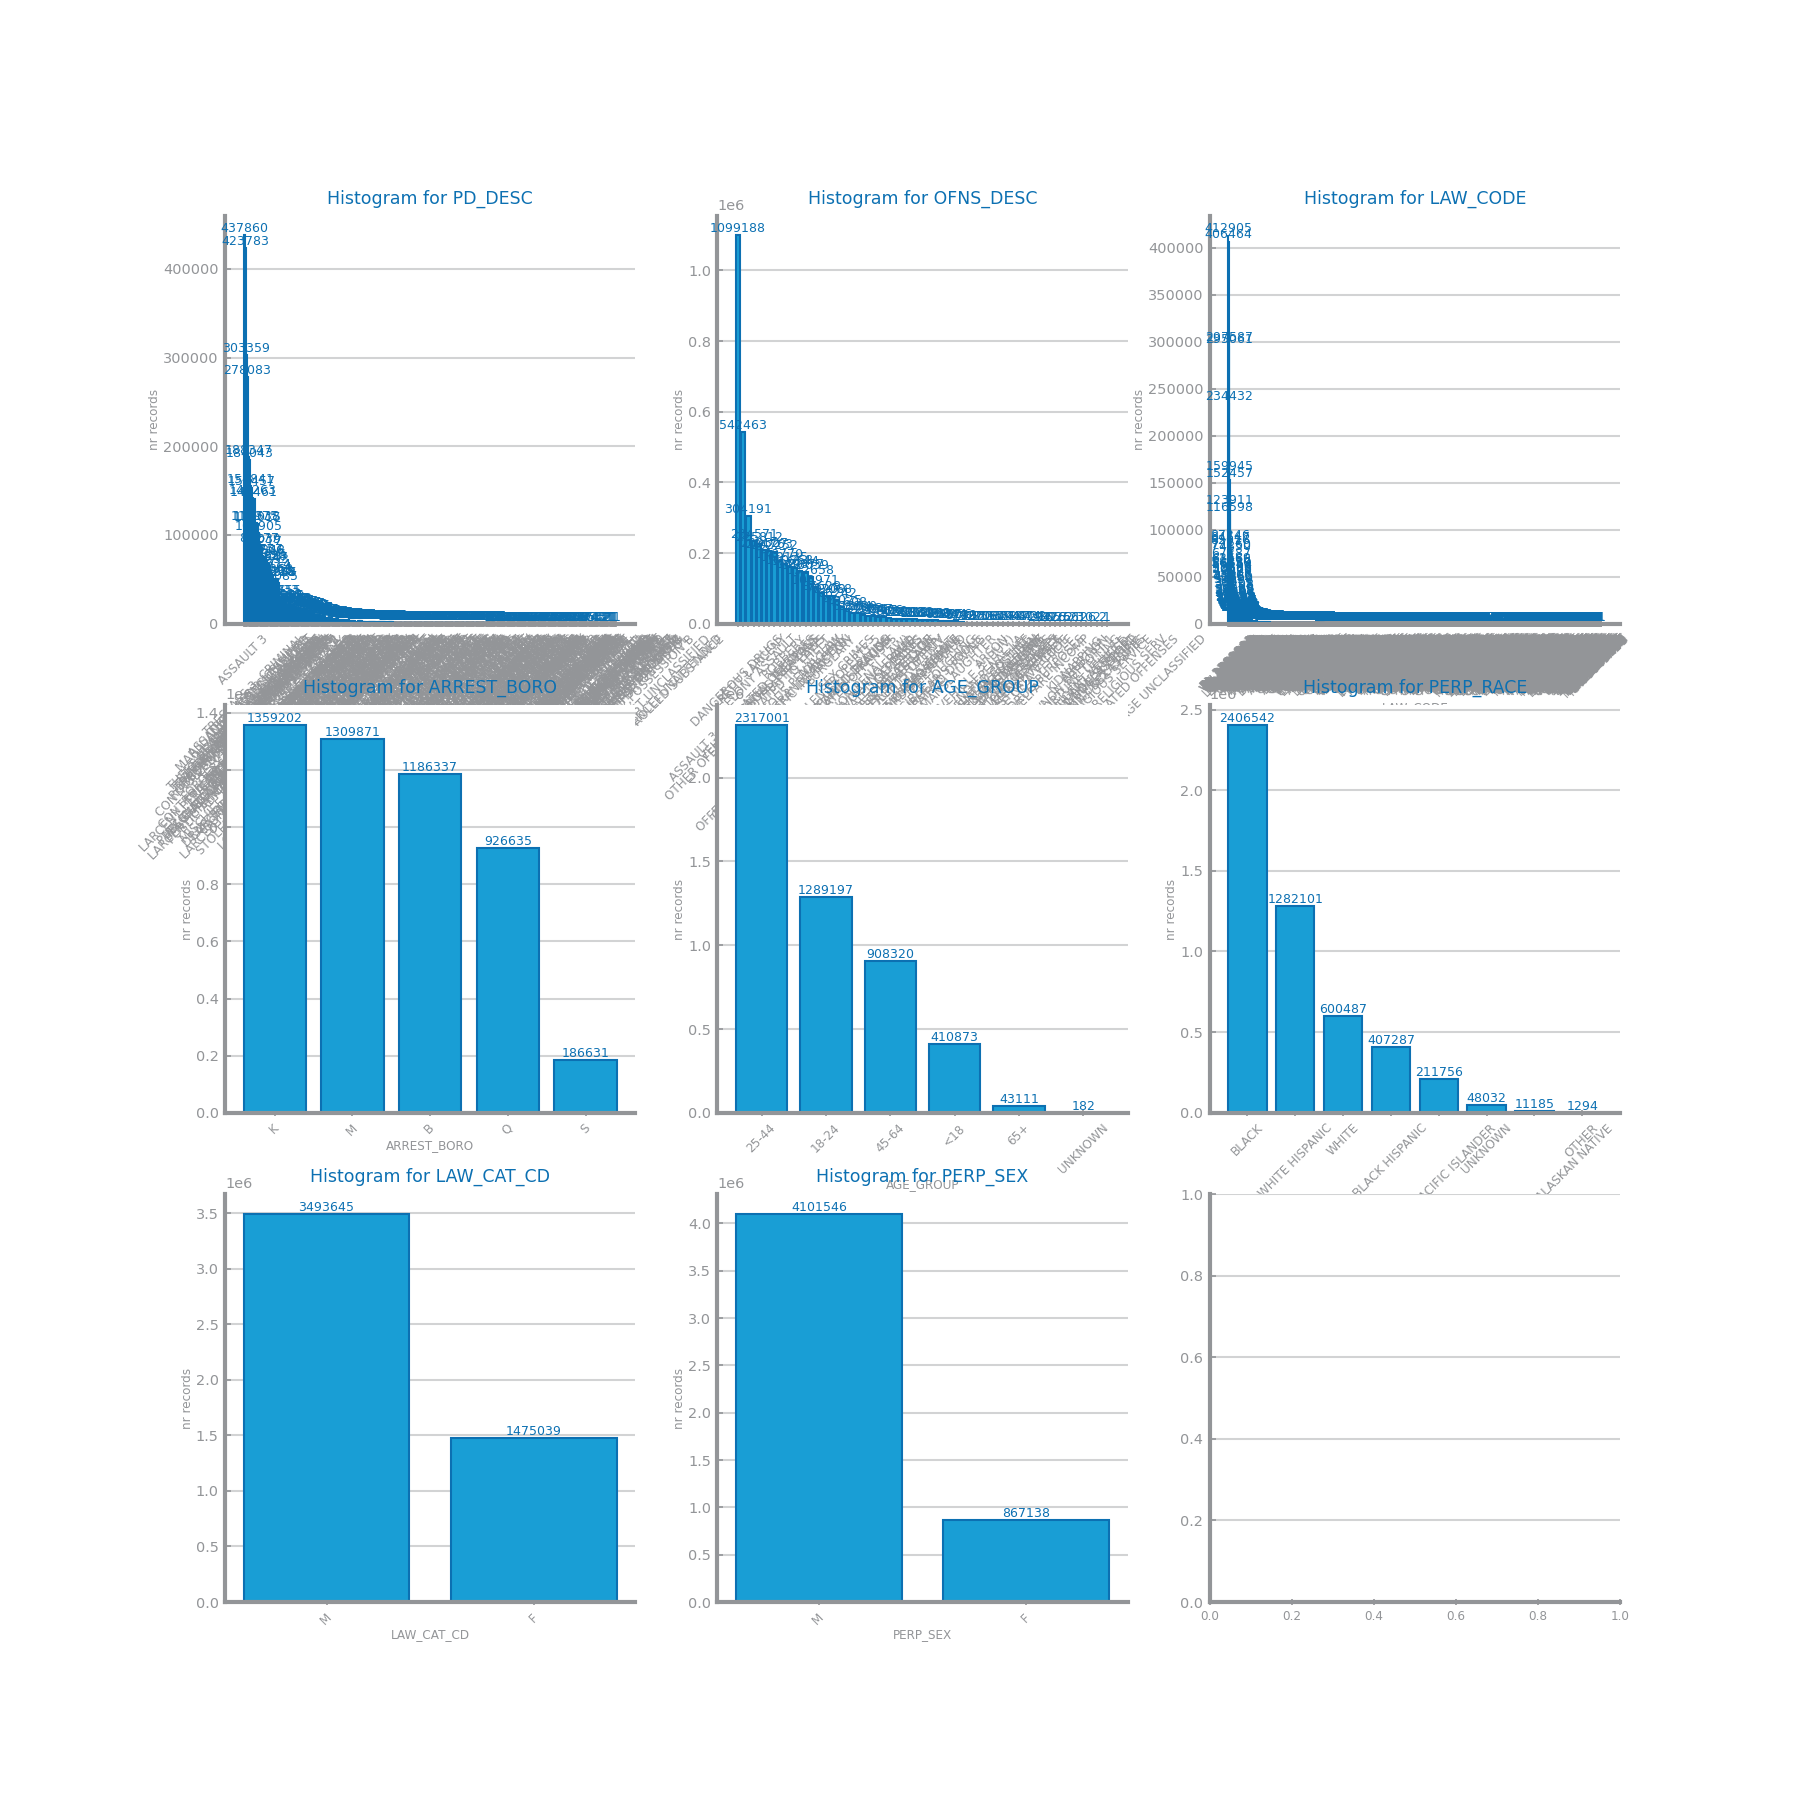
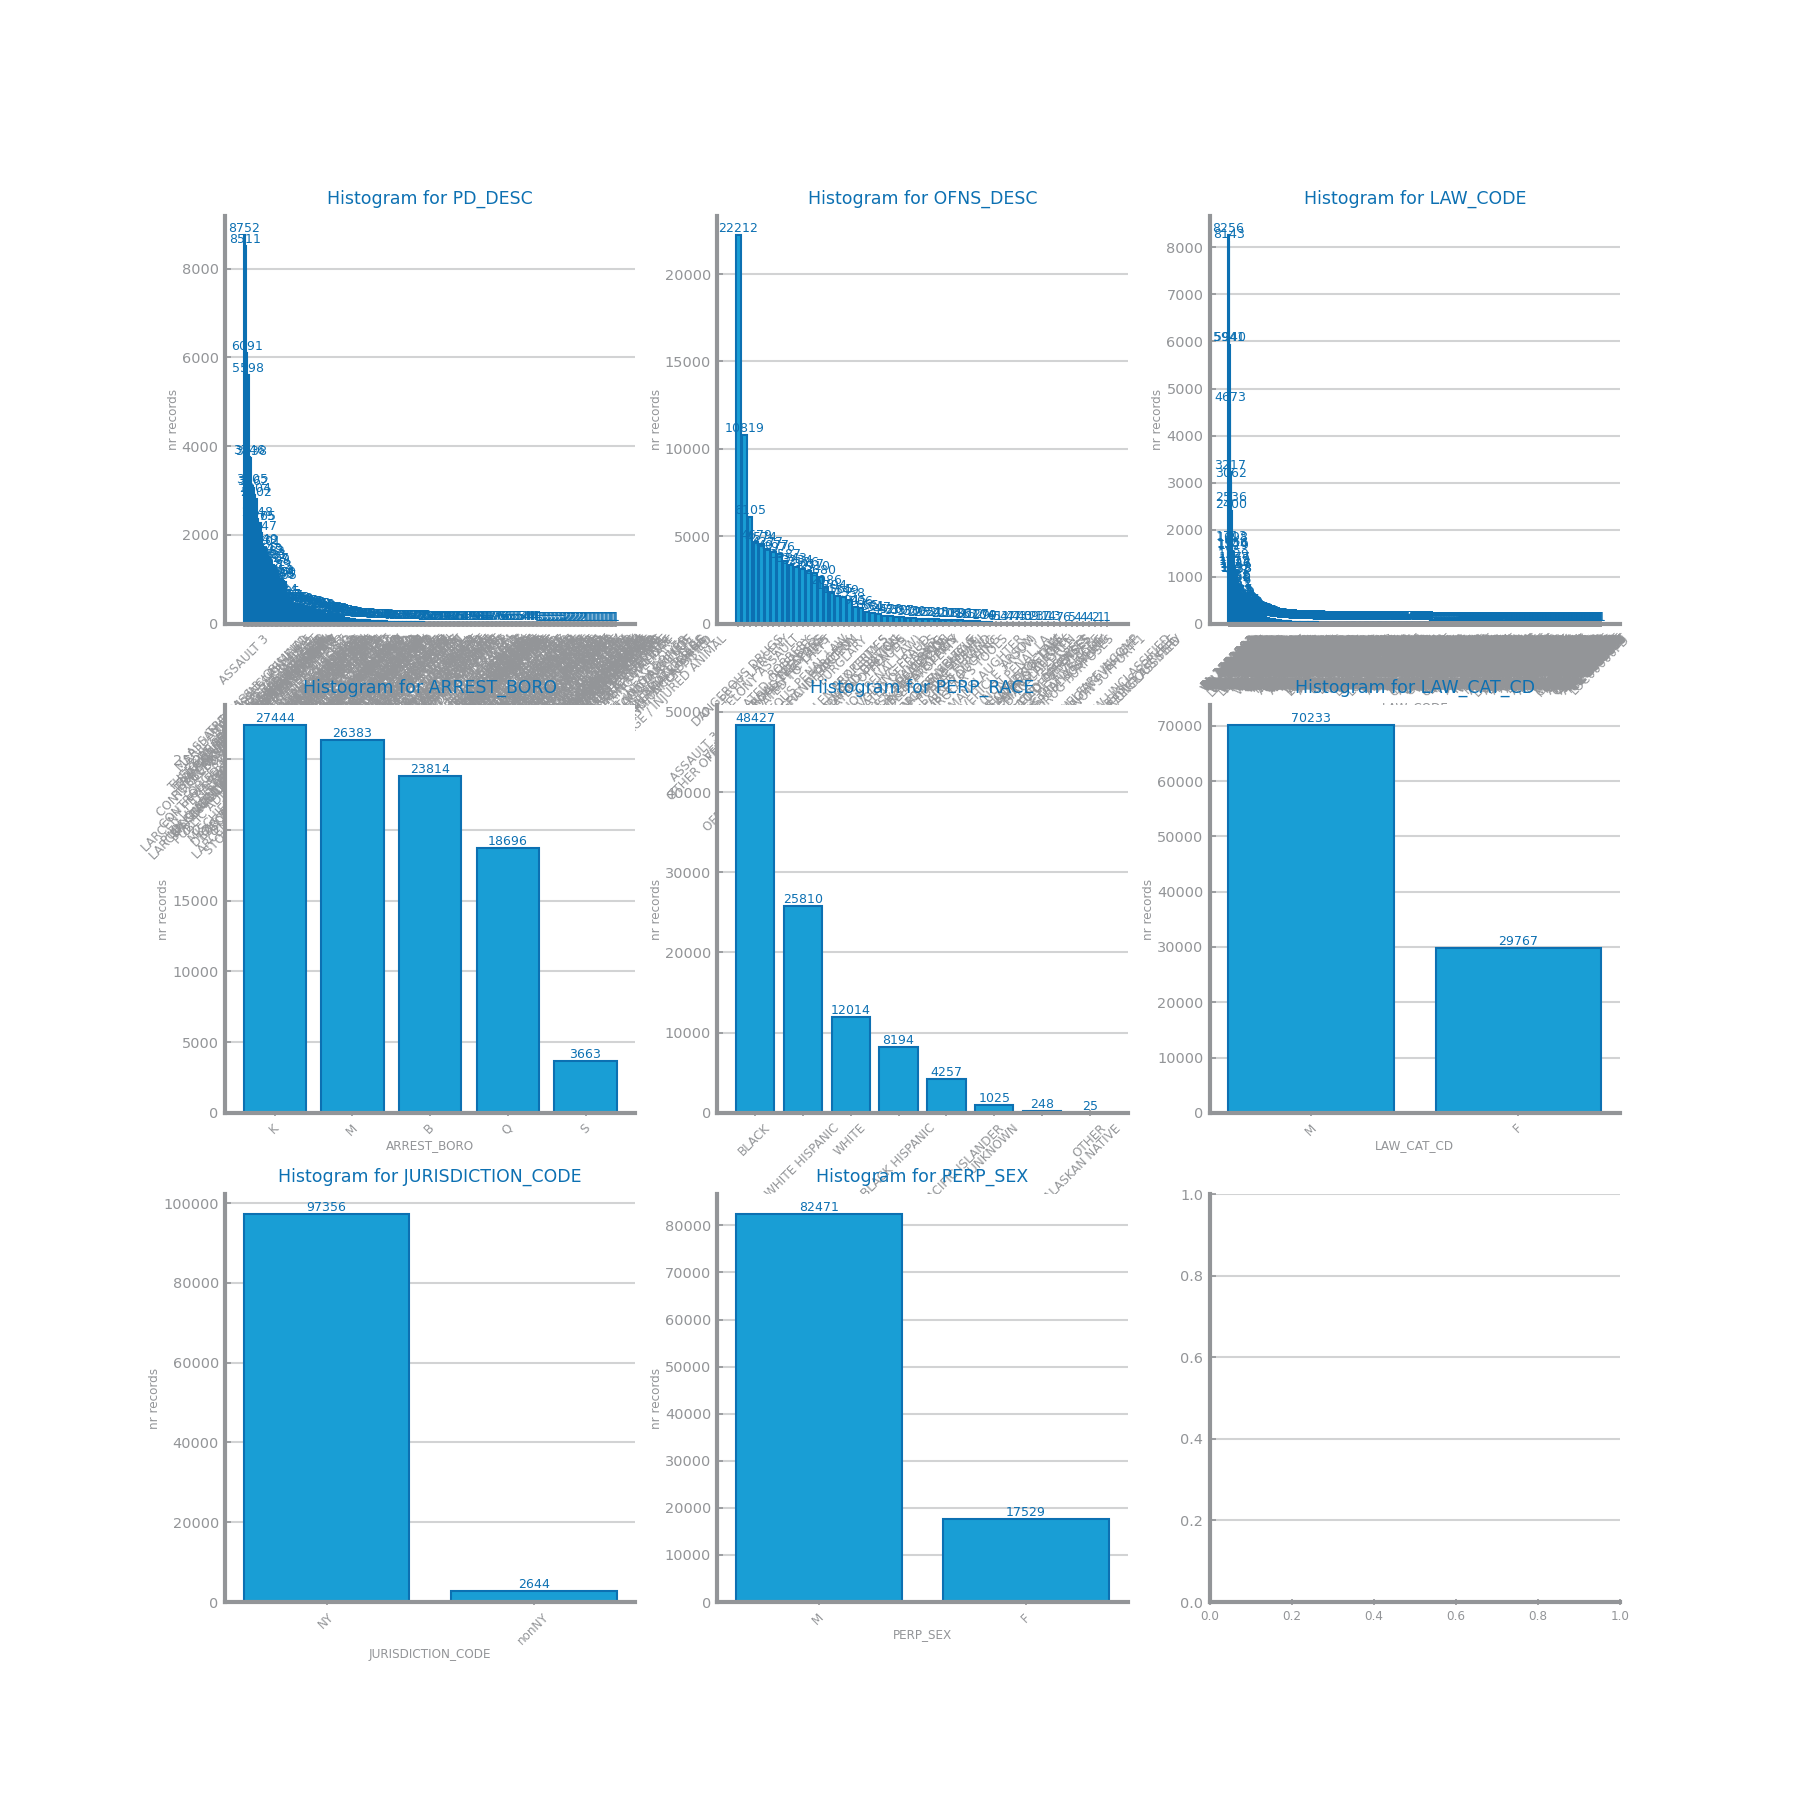
Redo Data Profiling for the new target on the NY_ARRESTS dataset

diff --git a/main.py b/main.py
@@ -12,12 +12,17 @@ from classes.DataProcessing import DataProcessing
 path_dataset1_class = "data/class_ny_arrests.csv"
 path_dataset2_class = "data/class_financial distress.csv"
 
-data_loader1 = DataManipulator(path_dataset1_class, "LAW_CAT_CD")
+data_loader1 = DataManipulator(path_dataset1_class, "JURISDICTION_CODE")
 data_loader2 = DataManipulator(path_dataset2_class, "CLASS")
 
 # Display the data
 print(data_loader1.data.head())
 print(data_loader2.data.head())
+
+# Sample the data of NY Arrests
+print(f"\nSampling 100000 records from the NY Arrests dataset...")
+data_loader1.data = data_loader1.data.sample(n=100000, random_state=42)
+print(f"Dataset successfully sampled to 100000 records.")
 
 # %% 1- Data Profiling
 
@@ -25,50 +30,47 @@ print(data_loader2.data.head())
 data_profiling1 = DataProfiling(data_loader1)
 data_profiling2 = DataProfiling(data_loader2)
 
-# Data Dimensionality
-# data_profiling1.plot_records_variables()
-# data_profiling2.plot_records_variables()
-# data_profiling1.plot_variable_types()
-# data_profiling2.plot_variable_types()
-# data_profiling1.plot_missing_values()
-# data_profiling2.plot_missing_values()
-
-# Data Distribution
-# data_profiling1.plot_global_boxplots()
-# data_profiling2.plot_global_boxplots()
-# data_profiling1.plot_single_variable_boxplots()
-# data_profiling2.plot_single_variable_boxplots()
-# data_profiling1.plot_histograms()
-# data_profiling2.plot_histograms()
-# data_profiling1.plot_histograms_distribution()
-# data_profiling2.plot_histograms_distribution()
-# data_profiling1.plot_outlier_comparison()
-# data_profiling2.plot_outlier_comparison()
-# data_profiling1.plot_class_distribution()
-# data_profiling2.plot_class_distribution()
-
-# Data Granularity
-# data_profiling1.plot_date_granularity_analysis()
-# data_profiling1.plot_location_granularity_analysis()
-# data_profiling1.plot_law_code_granularity_analysis()
-# data_profiling1.plot_borough_granularity_analysis()
-# data_profiling1.plot_age_granularity_analysis()
-# data_profiling1.plot_race_granularity_analysis()
-
-# Data Sparsity
-# data_profiling1.plot_sparsity_analysis()
-# data_profiling2.plot_sparsity_analysis()
-# data_profiling1.plot_sparsity_analysis_per_class()
-# data_profiling2.plot_sparsity_analysis_per_class()
-
-# Sample the data of NY Arrests
-print(f"\nSampling 100000 records from the NY Arrests dataset...")
-data_loader1.data = data_loader1.data.sample(n=100000, random_state=42)
-print(f"Dataset successfully sampled to 100000 records.")
-
 # Data Processing
 data_processing1 = DataProcessing(data_loader1)
 data_processing2 = DataProcessing(data_loader2)
+
+data_processing1.pre_encode_variables()
+
+# Data Dimensionality
+data_profiling1.plot_records_variables()
+# data_profiling2.plot_records_variables()
+data_profiling1.plot_variable_types()
+# data_profiling2.plot_variable_types()
+data_profiling1.plot_missing_values()
+# data_profiling2.plot_missing_values()
+
+# Data Distribution
+data_profiling1.plot_global_boxplots()
+# data_profiling2.plot_global_boxplots()
+data_profiling1.plot_single_variable_boxplots()
+# data_profiling2.plot_single_variable_boxplots()
+data_profiling1.plot_histograms()
+# data_profiling2.plot_histograms()
+data_profiling1.plot_histograms_distribution()
+# data_profiling2.plot_histograms_distribution()
+data_profiling1.plot_outlier_comparison()
+# data_profiling2.plot_outlier_comparison()
+data_profiling1.plot_class_distribution()
+# data_profiling2.plot_class_distribution()
+
+# Data Granularity
+data_profiling1.plot_date_granularity_analysis()
+data_profiling1.plot_location_granularity_analysis()
+data_profiling1.plot_law_code_granularity_analysis()
+data_profiling1.plot_borough_granularity_analysis()
+data_profiling1.plot_age_granularity_analysis()
+data_profiling1.plot_race_granularity_analysis()
+
+# Data Sparsity
+data_profiling1.plot_sparsity_analysis()
+# data_profiling2.plot_sparsity_analysis()
+data_profiling1.plot_sparsity_analysis_per_class()
+# data_profiling2.plot_sparsity_analysis_per_class()
 
 # Data Encoding of NY Arrests
 data_processing1.encode_variables()
@@ -76,7 +78,7 @@ data_processing1.encode_variables()
 data_loader1.data.to_csv("data/class_ny_arrests_encoded.csv", index=False)
 
 # Data Correlation
-# data_profiling1.plot_correlation_analysis()
+data_profiling1.plot_correlation_analysis()
 # data_profiling2.plot_correlation_analysis()
 
 # %% 2- Data Processing
@@ -100,13 +102,13 @@ data_loader2.data.to_csv("data/class_financial_distress_MV.csv", index=False)
 # data_loader2.data = pd.read_csv("data/class_financial_distress_MV.csv")
 
 # Data Splitting
-X1 = data_loader1.data.drop(columns=["LAW_CAT_CD"])
-y1 = data_loader1.data["LAW_CAT_CD"]
+X1 = data_loader1.data.drop(columns=[data_loader1.target])
+y1 = data_loader1.data[data_loader1.target]
 X1_train, X1_test, y1_train, y1_test = train_test_split(X1, y1, test_size=0.3, random_state=42)
 data_processing1.X_train, data_processing1.y_train, data_processing1.X_test, data_processing1.y_test = X1_train, y1_train, X1_test, y1_test
 
-X2 = data_loader2.data.drop(columns=["CLASS"])
-y2 = data_loader2.data["CLASS"]
+X2 = data_loader2.data.drop(columns=[data_loader2.target])
+y2 = data_loader2.data[data_loader2.target]
 X2_train, X2_test, y2_train, y2_test = train_test_split(X2, y2, test_size=0.3, random_state=42)
 data_processing2.X_train, data_processing2.y_train, data_processing2.X_test, data_processing2.y_test = X2_train, y2_train, X2_test, y2_test
 

diff --git a/classes/DataProcessing.py b/classes/DataProcessing.py
@@ -26,10 +26,7 @@ class DataProcessing:
         self.y_train = Series()
         self.y_test = Series()
 
-    def encode_variables(self):
-        """
-        Encodes all symbolic variables in the dataset based on the granularity analysis.
-        """
+    def pre_encode_variables(self):
 
         # Encode AGE_GROUP
         print("Encoding AGE_GROUP...")
@@ -38,6 +35,14 @@ class DataProcessing:
             self.data_loader.data['AGE_GROUP'].isin(valid_age_groups), 'UNKNOWN')
         age_group_mapping = {'UNKNOWN': None, '<18': 1, '18-24': 2, '25-44': 3, '45-64': 4, '65+': 5}
         self.data_loader.data['AGE_GROUP'] = self.data_loader.data['AGE_GROUP'].map(age_group_mapping)
+
+        # Encode JURISDICTION_CODE
+        self.data_loader.data['JURISDICTION_CODE'] = self.data_loader.data['JURISDICTION_CODE'].apply(lambda x: 'NY' if x < 3 else 'nonNY')
+
+    def encode_variables(self):
+        """
+        Encodes all symbolic variables in the dataset based on the granularity analysis.
+        """
 
         # Encode ARREST_DATE
         print("Encoding ARREST_DATE...")
@@ -114,6 +119,7 @@ class DataProcessing:
         # Encode LAW_CAT_CD, ARREST_BORO, PERP_SEX, PERP_RACE
         print("Encoding other variables...")
         mapping = {
+            'JURISDICTION_CODE': {'NY': 1, 'nonNY': 0},
             'LAW_CAT_CD': {'F': 1, 'M': 0},
             'ARREST_BORO': {'M': 1, 'B': 2, 'Q': 3, 'K': 4, 'S': 5},
             'PERP_SEX': {'M': 1, 'F': 0},
@@ -135,12 +141,6 @@ class DataProcessing:
         """
         if self.data_loader.target == "LAW_CAT_CD":
 
-            # #Drop all the variables
-            # data1 = self.data_loader.data['PD_CD']
-            # data2 = self.data_loader.data['LAW_CAT_CD']
-            #
-            # self.data_loader.data = pd.concat([data1, data2], axis=1)
-
             self.data_loader.data.drop(columns=['ARREST_KEY'], inplace=True)
             print("\nDropped 'ARREST_KEY' variable for being irrelevant for the classification task.")
 
@@ -156,8 +156,9 @@ class DataProcessing:
             # self.data_loader.data.drop(columns=['KY_CD'], inplace=True)
             # print("\nDropped 'KY_CD' variable for being a false predictor.")
 
-            self.data_loader.data.drop(columns=['LAW_CODE'], inplace=True)
-            print("Dropped 'LAW_CODE' variable for being a false predictor.")
+            # self.data_loader.data.drop(columns=['LAW_CODE'], inplace=True)
+            # print("Dropped 'LAW_CODE' variable for being a false predictor.")
+
         elif self.data_loader.target == "CLASS":
 
             self.data_loader.data.drop(columns=['Financial Distress'], inplace=True)
